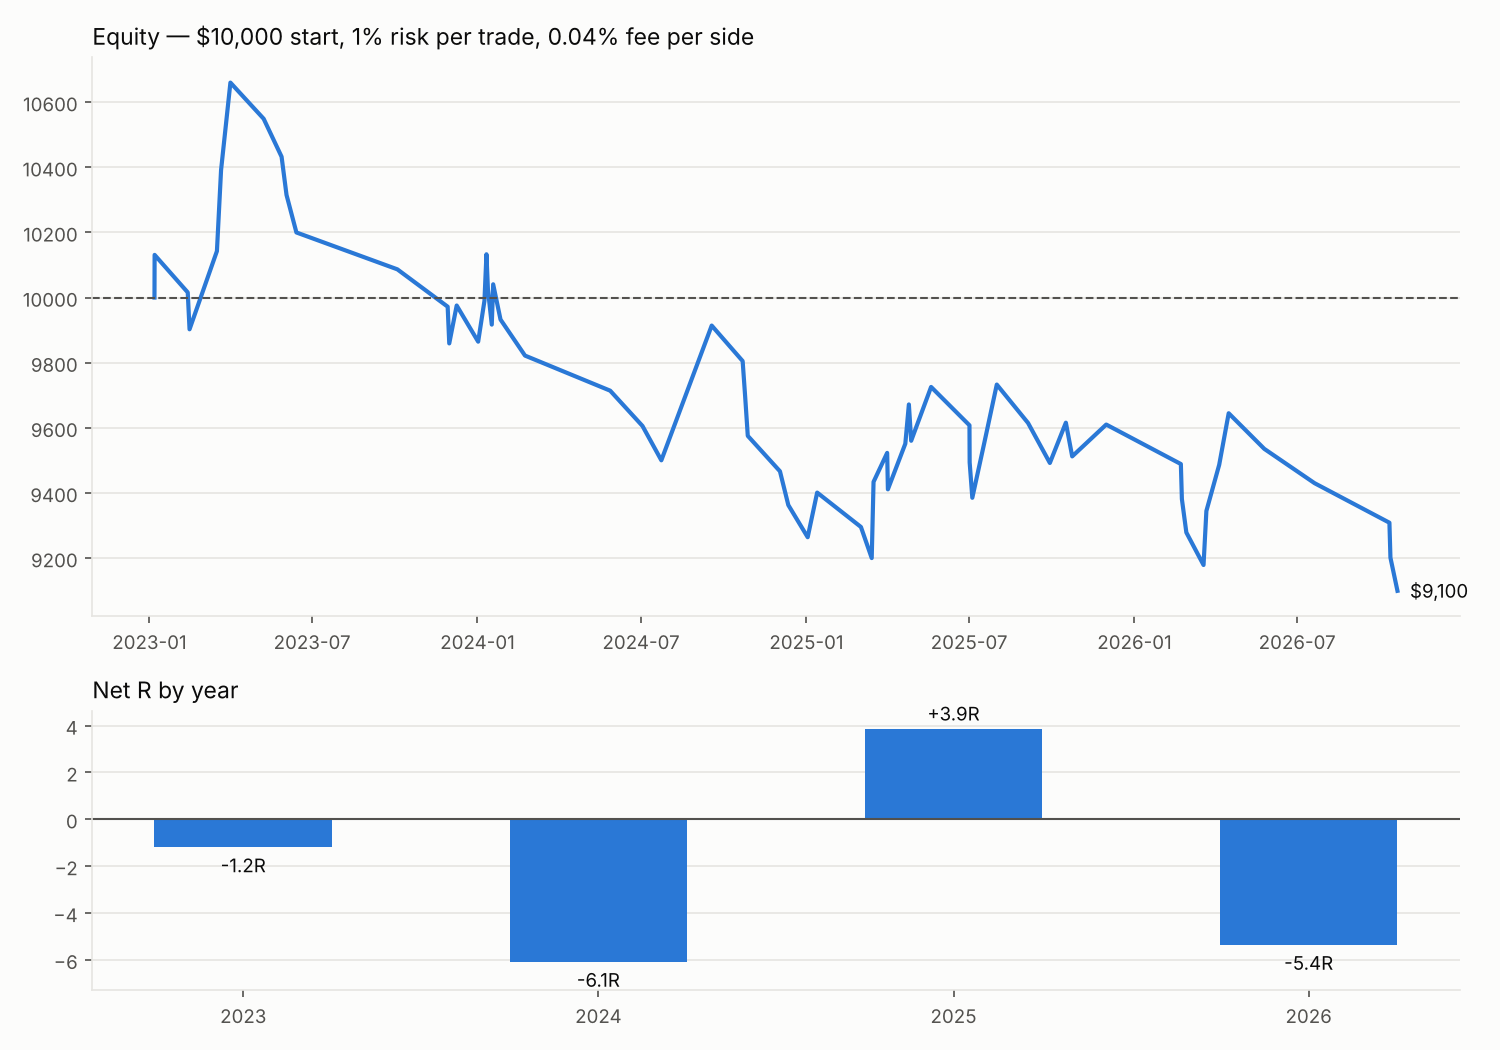
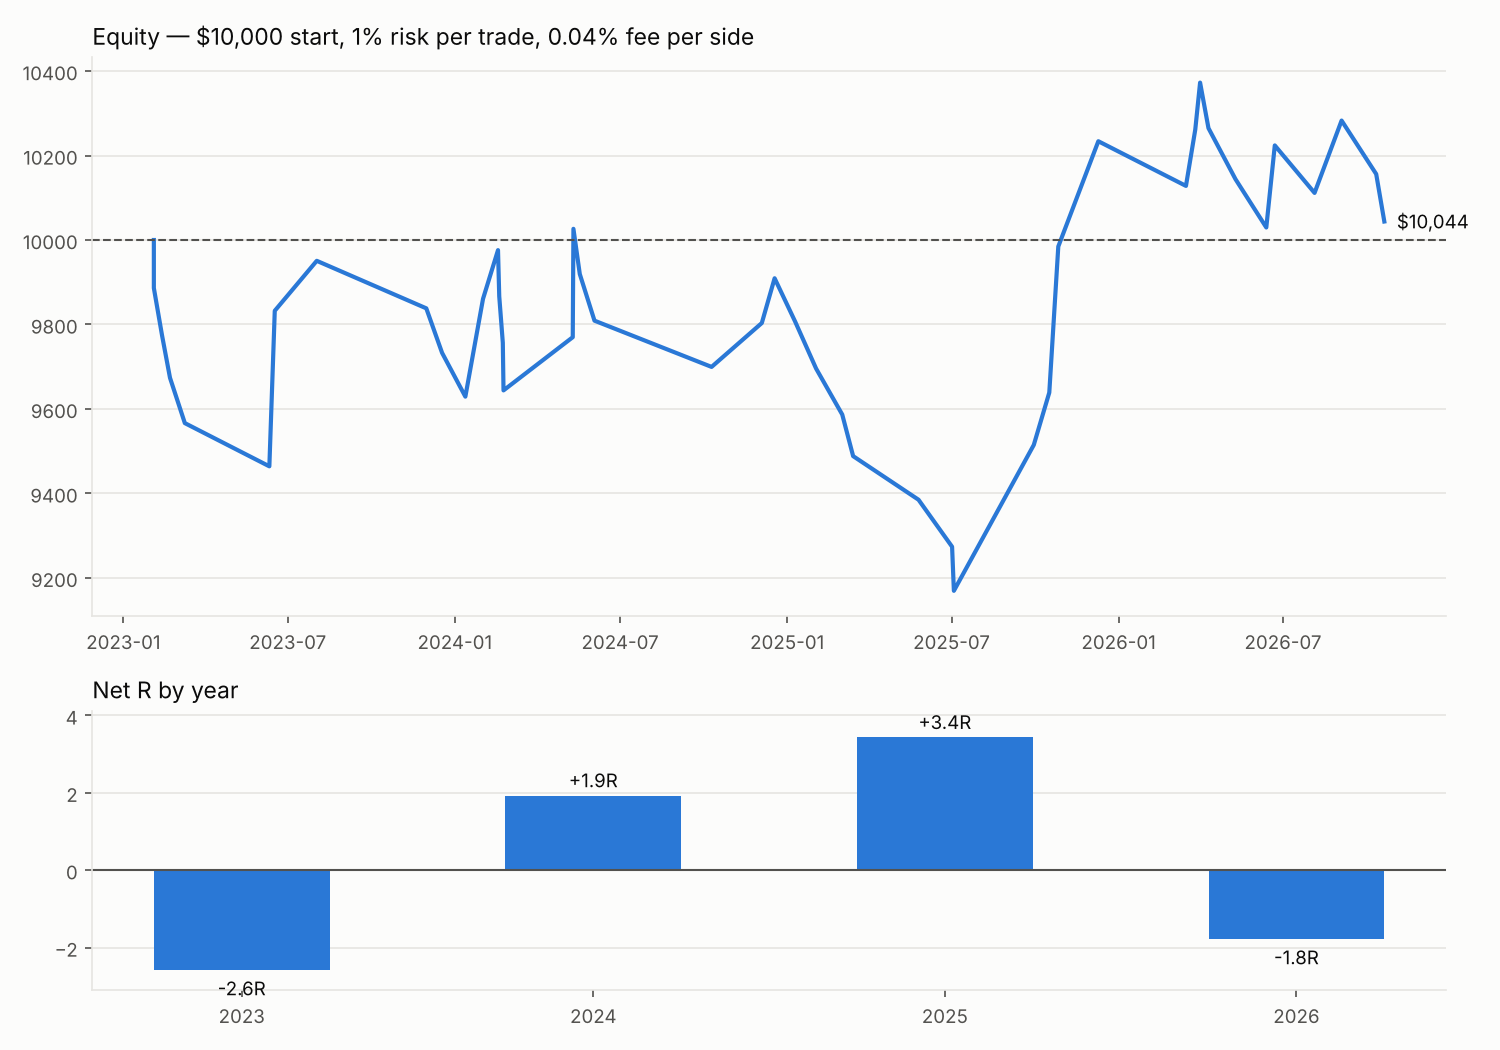
Bands on 15m; add EMA 50/100/200 support/resistance filter and variants
Claude-Session: https://claude.ai/code/session_015dqynDZsdWtK5V3aforwTe

diff --git a/backtest.py b/backtest.py
@@ -23,7 +23,8 @@ Rules (as implemented)
                             (swing high) above entry, whichever is closer (= hit first).
                    SHORT -> take profit at VAL or the nearest 4H sell-side liquidity,
                             whichever is closer. Stop loss as above.
-7. Michael bands: EMA 12/21 on band_tf. A long BOS is only taken while the band is
+7. EMA 50/100/200: (15m) support/resistance, see Params.sr_modes.
+   Michael bands: EMA 12/21 on band_tf (15m). A long BOS is only taken while the band is
                    green (EMA12 > EMA21), a short BOS only while it is red.
 8. Session       : entries only 10:00-22:00 Europe/Sofia (Plovdiv). Pending orders are
                    cancelled at 22:00. Open trades are NOT closed at 22:00 - they run
@@ -62,11 +63,22 @@ class Params:
     sides: tuple = ("long", "short")
     # Michael's EMA bands (EMA fast/slow). Green = fast > slow -> longs only,
     # red = fast < slow -> shorts only. band_tf=None disables the filter.
-    band_tf: str | None = "4h"
+    band_tf: str | None = "15min"
     band_fast: int = 12
     band_slow: int = 21
     band_mode: str = "cross"     # "cross": colour from fast vs slow
                                  # "slope": green only if both EMAs rise, red only if both fall
+    # EMA 50/100/200 (15m) used as support / resistance.
+    sr_lengths: tuple = (50, 100, 200)
+    sr_tf: str = "15min"
+    sr_tol: float = 0.0015       # "touch" tolerance (0.15%)
+    # "support"  : long only if the sweep wick tagged an EMA (within tol or through it)
+    #              and the BOS candle closed back ABOVE it (EMA held as support);
+    #              short mirror: wick tagged EMA and BOS closed back BELOW it (resistance).
+    # "target"   : an EMA between entry and the VAH/VAL/liq target is resistance (long)
+    #              / support (short) -> take profit there instead.
+    # "trend200" : long only above EMA200, short only below.
+    sr_modes: tuple = ("support",)
 
 
 # ----------------------------------------------------------------- data
@@ -174,6 +186,40 @@ def michael_bands(df: pd.DataFrame, p: Params) -> np.ndarray:
     return col.reindex(bar_close, method="ffill").fillna(0).values
 
 
+def sr_emas(df: pd.DataFrame, p: Params) -> dict:
+    """EMA values known at the close of each 15m candle, per length."""
+    tf = pd.Timedelta(p.sr_tf)
+    out = {}
+    close = df["close"] if tf == pd.Timedelta("15min") else df["close"].resample(p.sr_tf).last().dropna()
+    for n in p.sr_lengths:
+        e = close.ewm(span=n, adjust=False).mean()
+        if tf != pd.Timedelta("15min"):
+            e.index = e.index + tf
+            e = e.reindex(df.index + pd.Timedelta("15min"), method="ffill")
+        out[n] = e.values
+    return out
+
+
+def _sr_ok(side, i, extreme, close_i, emas, p):
+    """Entry filters from EMA 50/100/200."""
+    if "trend200" in p.sr_modes and 200 in emas:
+        e = emas[200][i]
+        if np.isnan(e) or (side == "long" and close_i <= e) or (side == "short" and close_i >= e):
+            return False
+    if "support" in p.sr_modes:
+        held = False
+        for e in (v[i] for v in emas.values()):
+            if np.isnan(e):
+                continue
+            if side == "long" and extreme <= e * (1 + p.sr_tol) and close_i > e:
+                held = True
+            if side == "short" and extreme >= e * (1 - p.sr_tol) and close_i < e:
+                held = True
+        if not held:
+            return False
+    return True
+
+
 # ----------------------------------------------------------------- engine
 @dataclass
 class Trade:
@@ -209,6 +255,7 @@ def run(df: pd.DataFrame, p: Params):
 
     ph15, pl15 = pivots(h, l, p.piv_15m)
     band = michael_bands(df, p)
+    emas = sr_emas(df, p) if p.sr_modes else {}
 
     active_hi: list[float] = []; active_lo: list[float] = []
     hi_ptr = lo_ptr = 0
@@ -313,17 +360,19 @@ def run(df: pd.DataFrame, p: Params):
                     setup["extreme"] = min(setup["extreme"], l[i])
                     ref = last_sh   # latest confirmed 15m swing high
                     if i > setup["start"] and ref is not None and c[i] > ref \
-                            and (p.band_tf is None or band[i] > 0):
+                            and (p.band_tf is None or band[i] > 0) \
+                            and _sr_ok("long", i, setup["extreme"], c[i], emas, p):
                         order = _make_order(setup, ref, i, now, p, vah_arr, val_arr,
-                                            active_hi, active_lo)
+                                            active_hi, active_lo, emas)
                         setup = None
                 else:
                     setup["extreme"] = max(setup["extreme"], h[i])
                     ref = last_sl   # latest confirmed 15m swing low
                     if i > setup["start"] and ref is not None and c[i] < ref \
-                            and (p.band_tf is None or band[i] < 0):
+                            and (p.band_tf is None or band[i] < 0) \
+                            and _sr_ok("short", i, setup["extreme"], c[i], emas, p):
                         order = _make_order(setup, ref, i, now, p, vah_arr, val_arr,
-                                            active_hi, active_lo)
+                                            active_hi, active_lo, emas)
                         setup = None
 
     if pos is not None:
@@ -331,7 +380,7 @@ def run(df: pd.DataFrame, p: Params):
     return trades, equity
 
 
-def _make_order(setup, level, i, now, p, vah_arr, val_arr, active_hi, active_lo):
+def _make_order(setup, level, i, now, p, vah_arr, val_arr, active_hi, active_lo, emas):
     side = setup["side"]
     entry = level
     if side == "long":
@@ -345,6 +394,10 @@ def _make_order(setup, level, i, now, p, vah_arr, val_arr, active_hi, active_lo)
         if not cands:
             return None
         target, src = min(cands)
+        if "target" in p.sr_modes:   # EMA overhead = resistance -> exit there
+            for n_, v in emas.items():
+                if not np.isnan(v[i]) and entry < v[i] < target:
+                    target, src = v[i], f"EMA{n_}"
         risk, reward = entry - stop, target - entry
     else:
         stop = setup["extreme"] * (1 + p.sl_buffer_pct)
@@ -357,6 +410,10 @@ def _make_order(setup, level, i, now, p, vah_arr, val_arr, active_hi, active_lo)
         if not cands:
             return None
         target, src = max(cands)
+        if "target" in p.sr_modes:   # EMA below = support -> exit there
+            for n_, v in emas.items():
+                if not np.isnan(v[i]) and target < v[i] < entry:
+                    target, src = v[i], f"EMA{n_}"
         risk, reward = stop - entry, entry - target
     if risk <= 0 or reward / risk < p.min_rr:
         return None

diff --git a/variants.py b/variants.py
@@ -8,20 +8,23 @@ here = os.path.dirname(os.path.abspath(__file__))
 df = load_15m(os.path.join(here, "data/raw/BTCUSDT-15m-*.csv"))
 base = Params()
 variants = {
-    "BASE: Michael bands 4H (EMA 12/21)": base,
-    "No Michael bands (previous base)": replace(base, band_tf=None),
-    "Michael bands 15m": replace(base, band_tf="15min"),
-    "Michael bands 1H": replace(base, band_tf="1h"),
-    "Michael bands 1D": replace(base, band_tf="1D"),
-    "Michael bands 4H, slope mode": replace(base, band_mode="slope"),
-    "Michael bands 1H, slope mode": replace(base, band_tf="1h", band_mode="slope"),
-    "4H bands + BOS within 2h": replace(base, setup_bars=8),
-    "4H bands, longs only": replace(base, sides=("long",)),
-    "4H bands, shorts only": replace(base, sides=("short",)),
-    "4H bands, no fees": replace(base, fee_pct=0.0),
-    "4H bands, force-close at 22:00": replace(base, flat_at_session_end=True),
-    "4H bands, 15m pivot strength 3": replace(base, piv_15m=3),
-    "4H bands, min R:R 2": replace(base, min_rr=2.0),
+    "BASE: 15m bands + EMA50/100/200 as S/R": base,
+    "15m bands only (no EMA S/R)": replace(base, sr_modes=()),
+    "EMA S/R + EMA as take-profit": replace(base, sr_modes=("support", "target")),
+    "EMA S/R + EMA as take-profit, min R:R 0.5": replace(base, sr_modes=("support", "target"), min_rr=0.5),
+    "EMAs as take-profit only": replace(base, sr_modes=("target",)),
+    "EMA S/R: trend200 only": replace(base, sr_modes=("trend200",)),
+    "EMA S/R: support + trend200": replace(base, sr_modes=("support", "trend200")),
+    "EMA S/R: all three": replace(base, sr_modes=("support", "target", "trend200")),
+    "Base, EMAs on 1H": replace(base, sr_tf="1h"),
+    "Base, EMAs on 4H": replace(base, sr_tf="4h"),
+    "Base, touch tolerance 0.3%": replace(base, sr_tol=0.003),
+    "Base, no Michael bands": replace(base, band_tf=None),
+    "No bands, no EMA S/R (original rules)": replace(base, band_tf=None, sr_modes=()),
+    "Base, longs only": replace(base, sides=("long",)),
+    "Base, shorts only": replace(base, sides=("short",)),
+    "Base, no fees": replace(base, fee_pct=0.0),
+    "Base, BOS within 2h": replace(base, setup_bars=8),
 }
 rows = []
 for name, p in variants.items():

diff --git a/README.md b/README.md
@@ -1,75 +1,77 @@
-# Trading15 — BTC backtest: 4H liquidity → 15m BOS retest → daily VP targets + Michael's EMA bands
+# Trading15 — BTC backtest: 4H liquidity → 15m BOS retest → daily VP targets + Michael's EMA bands + EMA 50/100/200
 
 **Data:** Binance BTCUSDT spot, 15m candles, 1 Jan 2023 – 31 Oct 2026 (134,395 candles).
 **Sizing:** $10,000 start, 1% of equity risked per trade, 0.04% fee per side.
 
-## Result (rules as given, with Michael's EMA bands on 4H)
+## Result (rules as given)
 
-**Michael's EMA bands** = EMA 12 / EMA 21 (TradingView "Michael's EMA"). Green (EMA12 > EMA21)
-→ only longs; red (EMA12 < EMA21) → only shorts. Default timeframe here is **4H**, using only
-closed 4H candles. Trades are **opened** 10:00–22:00 Plovdiv time and then run to TP/SL.
+Everything is traded on **15m**; the 4H chart is only used to mark liquidity.
+* **Michael's EMA bands** (EMA 12/21, 15m): green → only longs, red → only shorts.
+* **EMA 50/100/200 (15m) as support / resistance:** a long is only taken if the sweep wick
+  tagged one of the EMAs (or went through it) and the BOS candle closed back **above** it,
+  so the EMA held as support. Shorts are the mirror: the wick tagged an EMA from below and the
+  BOS candle closed back **below** it, so it held as resistance.
+* Trades are **opened** 10:00–22:00 Plovdiv time and run to TP/SL.
 
 | Trades | Win rate | Avg R | Total R | Profit factor | Return | Max DD |
 |---:|---:|---:|---:|---:|---:|---:|
-| 64 | 34.4% | −0.14 | −8.8 R | 0.81 | −9.0% | −14.6% |
+| 44 | 36.4% | +0.02 | +1.0 R | 1.01 | +0.4% | −8.5% |
 
-Without the bands it was 203 trades, −24.0 R, −23.3%, max DD −28.3%. The 4H bands remove about
-two thirds of the trades and cut the loss, but the strategy is still negative.
+Break-even. Longs +5.7 R (22 trades), shorts −4.7 R (22 trades).
+By year: 2023 −2.6 R, 2024 +1.9 R, 2025 +3.4 R, 2026 −1.8 R.
 
 ![equity](results/equity.png)
 
-| Exit reason | Trades | Avg R | Sum R |
-|---|---:|---:|---:|
-| Stop loss | 42 | −1.13 | −47.5 |
-| TP at VAH (longs) | 15 | +1.90 | +28.5 |
-| TP at VAL (shorts) | 5 | +1.47 | +7.4 |
-| TP at 4H liquidity | 2 | +1.41 | +2.8 |
+### Best variant: EMA 50/100/200 support/resistance **without** the Michael bands
+
+| Trades | Win rate | Avg R | Total R | Profit factor | Return | Max DD |
+|---:|---:|---:|---:|---:|---:|---:|
+| 89 | 44.9% | +0.25 | +22.0 R | 1.39 | +23.1% | −10.6% |
 
 | Year | Trades | Win rate | Net R |
 |---|---:|---:|---:|
-| 2023 | 15 | 33.3% | −1.2 |
-| 2024 | 17 | 23.5% | −6.1 |
-| 2025 | 20 | 50.0% | +3.9 |
-| 2026 | 12 | 25.0% | −5.4 |
+| 2023 | 17 | 41.2% | +3.4 |
+| 2024 | 25 | 44.0% | +4.8 |
+| 2025 | 27 | 48.1% | +10.2 |
+| 2026 | 20 | 45.0% | +3.7 |
 
-| Side | Trades | Net R |
-|---|---:|---:|
-| Longs (green band) | 33 | **+8.2** |
-| Shorts (red band) | 31 | **−17.0** |
+Longs +21.7 R (42 trades), shorts +0.4 R (47 trades). This is the first version that is
+positive **every year**. The EMA filter more than halves the trades (203 → 89) and lifts the
+win rate from 30% to 45%. Adding the Michael bands on top removes half of the remaining trades,
+including most of the winners.
 
-**Band timeframe matters a lot.** This is a reversal setup (sweep a low → go long), while the
-bands follow the trend. Sweeping a low usually turns a fast band red, so the long gets blocked:
-* **15m bands:** 49 trades, +5.7 R, PF 1.15, +5.2%, max DD −6.3%. This is the only band
-  timeframe that is positive with both directions.
-* **1H bands:** only 3 trades in almost 4 years; the band almost never flips back in time.
-* **4H bands:** 64 trades, −8.8 R (the result above).
-* **1D bands:** 104 trades, −21.5 R.
+### What didn't work
+* **EMAs as take-profit** (exit at the first EMA in the way): only 4 trades in 4 years. After a
+  sweep, price is almost always below the 50/100/200 EMAs, so there is an EMA right above the
+  entry and the reward-to-risk falls under 1:1.
+* **Trend filter (long only above EMA200):** 15 trades, −2.4 R.
+* **EMAs on 1H or 4H instead of 15m:** −11.5 R and −6.0 R.
 
-As before, the shorts are the problem. **4H bands, longs only:** 33 trades, 45.5% win rate,
-+8.2 R, PF 1.36, +8.1%, max DD −5.8%. Without the bands, longs only gave +24.3 R on 97 trades,
-so for longs the band filter removes more winners than losers.
-
-Caveats: sample sizes are small (3–104 trades), BTC rose from ~$16.5k to ~$78k over the period,
-and the best timeframes were chosen after seeing the results.
+Caveats: 44–89 trades is a small sample, BTC rose from ~$16.5k to ~$78k over the period, and
+the best variant was picked after seeing the results. Test it on 2020–2022 or on ETH before
+trusting it.
 
 ## Sensitivity (`results/variants.csv`)
 
 | Variant | Trades | Win % | Avg R | Total R | PF | Return | Max DD |
 |---|---:|---:|---:|---:|---:|---:|---:|
-| **Base: Michael bands 4H (EMA 12/21)** | 64 | 34.4 | −0.14 | −8.8 | 0.81 | −9.0% | −14.6% |
-| No Michael bands (previous base) | 203 | 30.5 | −0.12 | −24.0 | 0.84 | −23.3% | −28.3% |
-| Michael bands 15m | 49 | 38.8 | +0.12 | +5.7 | 1.15 | +5.2% | −6.3% |
-| Michael bands 1H | 3 | 66.7 | +0.41 | +1.2 | 2.08 | +1.2% | −1.1% |
-| Michael bands 1D | 104 | 29.8 | −0.21 | −21.5 | 0.74 | −20.2% | −26.8% |
-| Michael bands 4H, slope mode | 12 | 33.3 | −0.26 | −3.1 | 0.65 | −3.2% | −4.4% |
-| Michael bands 1H, slope mode | 20 | 35.0 | −0.09 | −1.7 | 0.86 | −1.9% | −9.2% |
-| 4H bands + BOS within 2h | 22 | 45.5 | +0.23 | +5.0 | 1.33 | +4.8% | −4.7% |
-| 4H bands, longs only | 33 | 45.5 | +0.25 | +8.2 | 1.36 | +8.1% | −5.8% |
-| 4H bands, shorts only | 31 | 22.6 | −0.55 | −17.0 | 0.36 | −15.8% | −15.8% |
-| 4H bands, no fees | 64 | 34.4 | −0.02 | −1.1 | 0.96 | −1.7% | −11.1% |
-| 4H bands, force-close at 22:00 | 64 | 31.2 | −0.26 | −16.9 | 0.55 | −15.9% | −18.9% |
-| 4H bands, 15m pivot strength 3 | 37 | 35.1 | −0.09 | −3.2 | 0.87 | −3.5% | −6.2% |
-| 4H bands, min R:R 2 | 34 | 17.6 | −0.46 | −15.8 | 0.51 | −15.0% | −20.1% |
+| **Base: 15m bands + EMA50/100/200 as S/R** | 44 | 36.4 | +0.02 | +1.0 | 1.01 | +0.4% | −8.5% |
+| 15m bands only (no EMA S/R) | 49 | 38.8 | +0.12 | +5.7 | 1.15 | +5.2% | −6.3% |
+| EMA S/R + EMA as take-profit | 4 | 25.0 | −0.47 | −1.9 | 0.4 | −1.9% | −3.1% |
+| EMA S/R + EMA as take-profit, min R:R 0.5 | 15 | 66.7 | +0.10 | +1.6 | 1.28 | +1.5% | −2.9% |
+| EMAs as take-profit only | 4 | 25.0 | −0.47 | −1.9 | 0.4 | −1.9% | −3.1% |
+| EMA S/R: trend200 only | 15 | 33.3 | −0.16 | −2.4 | 0.76 | −2.5% | −7.4% |
+| EMA S/R: support + trend200 | 15 | 33.3 | −0.16 | −2.4 | 0.76 | −2.5% | −7.4% |
+| EMA S/R: all three | 4 | 25.0 | −0.47 | −1.9 | 0.4 | −1.9% | −3.1% |
+| Base, EMAs on 1H | 23 | 21.7 | −0.50 | −11.5 | 0.41 | −11.1% | −11.2% |
+| Base, EMAs on 4H | 14 | 21.4 | −0.43 | −6.0 | 0.5 | −5.9% | −5.9% |
+| Base, touch tolerance 0.3% | 44 | 36.4 | +0.02 | +1.0 | 1.01 | +0.4% | −8.5% |
+| Base, no Michael bands | 89 | 44.9 | +0.25 | +22.0 | 1.39 | +23.1% | −10.6% |
+| No bands, no EMA S/R (original rules) | 203 | 30.5 | −0.12 | −24.0 | 0.84 | −23.3% | −28.3% |
+| Base, longs only | 22 | 40.9 | +0.26 | +5.7 | 1.39 | +5.5% | −8.4% |
+| Base, shorts only | 22 | 31.8 | −0.21 | −4.7 | 0.71 | −4.8% | −6.4% |
+| Base, no fees | 44 | 36.4 | +0.12 | +5.1 | 1.16 | +4.6% | −7.5% |
+| Base, BOS within 2h | 16 | 50.0 | +0.38 | +6.1 | 1.67 | +6.1% | −2.2% |
 
 ## How the rules were coded
 
@@ -92,11 +94,14 @@ parameters in `Params` in `backtest.py`):
    offers less than 1:1 are skipped.
 7. **Session** — trades are opened only 10:00–22:00 Europe/Sofia (Plovdiv; daylight-saving
    handled). Unfilled orders are cancelled at 22:00; open trades keep running to TP/SL.
-8. **Michael's EMA bands** — EMA 12 / EMA 21 on closed 4H candles (`band_tf`). A long BOS is only
+8. **Michael's EMA bands** — EMA 12 / EMA 21 on 15m candles (`band_tf`). A long BOS is only
    taken while the band is green (EMA12 > EMA21), a short BOS only while it is red. If the BOS
    candle has the wrong colour, the setup keeps waiting for a later BOS inside the window.
    `band_mode="slope"` is the alternative colouring (green only when both EMAs rise).
-9. **Conservative fills** — if stop and target are both inside one candle, the stop counts;
+9. **EMA 50/100/200 S/R** (`sr_modes`, 15m) — `support`: the sweep wick came within 0.15% of
+   an EMA (or through it) and the BOS candle closed back on the right side of it. Optional:
+   `target` (take profit at the first EMA in the way) and `trend200` (long only above EMA200).
+10. **Conservative fills** — if stop and target are both inside one candle, the stop counts;
    on the fill candle only the stop is checked. One position at a time.
 
 ## Reproduce
